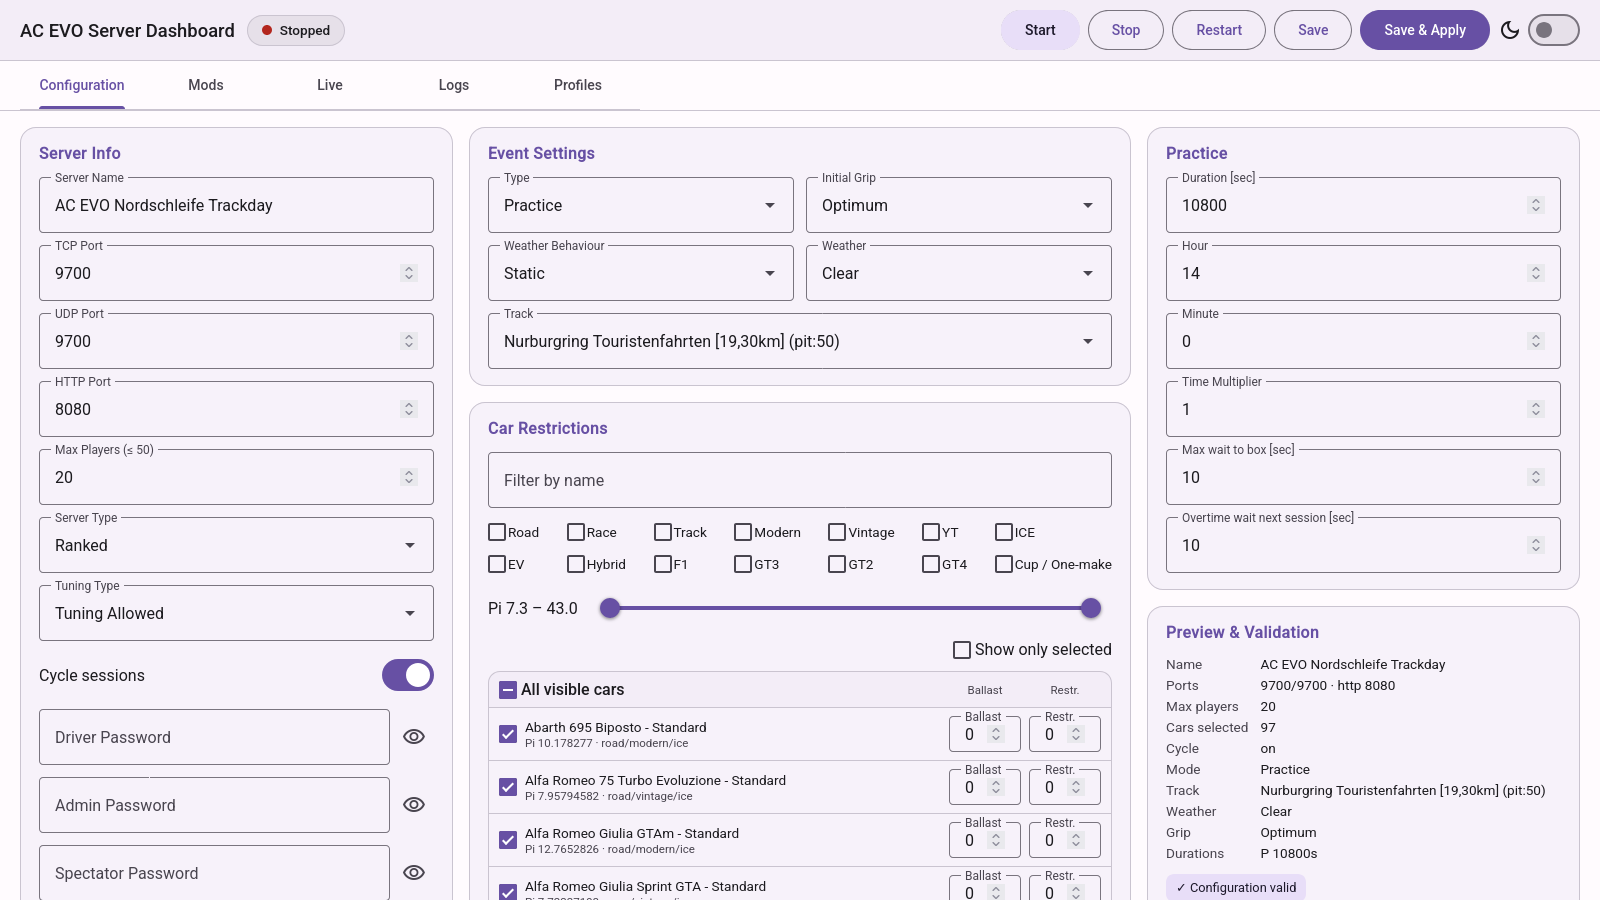
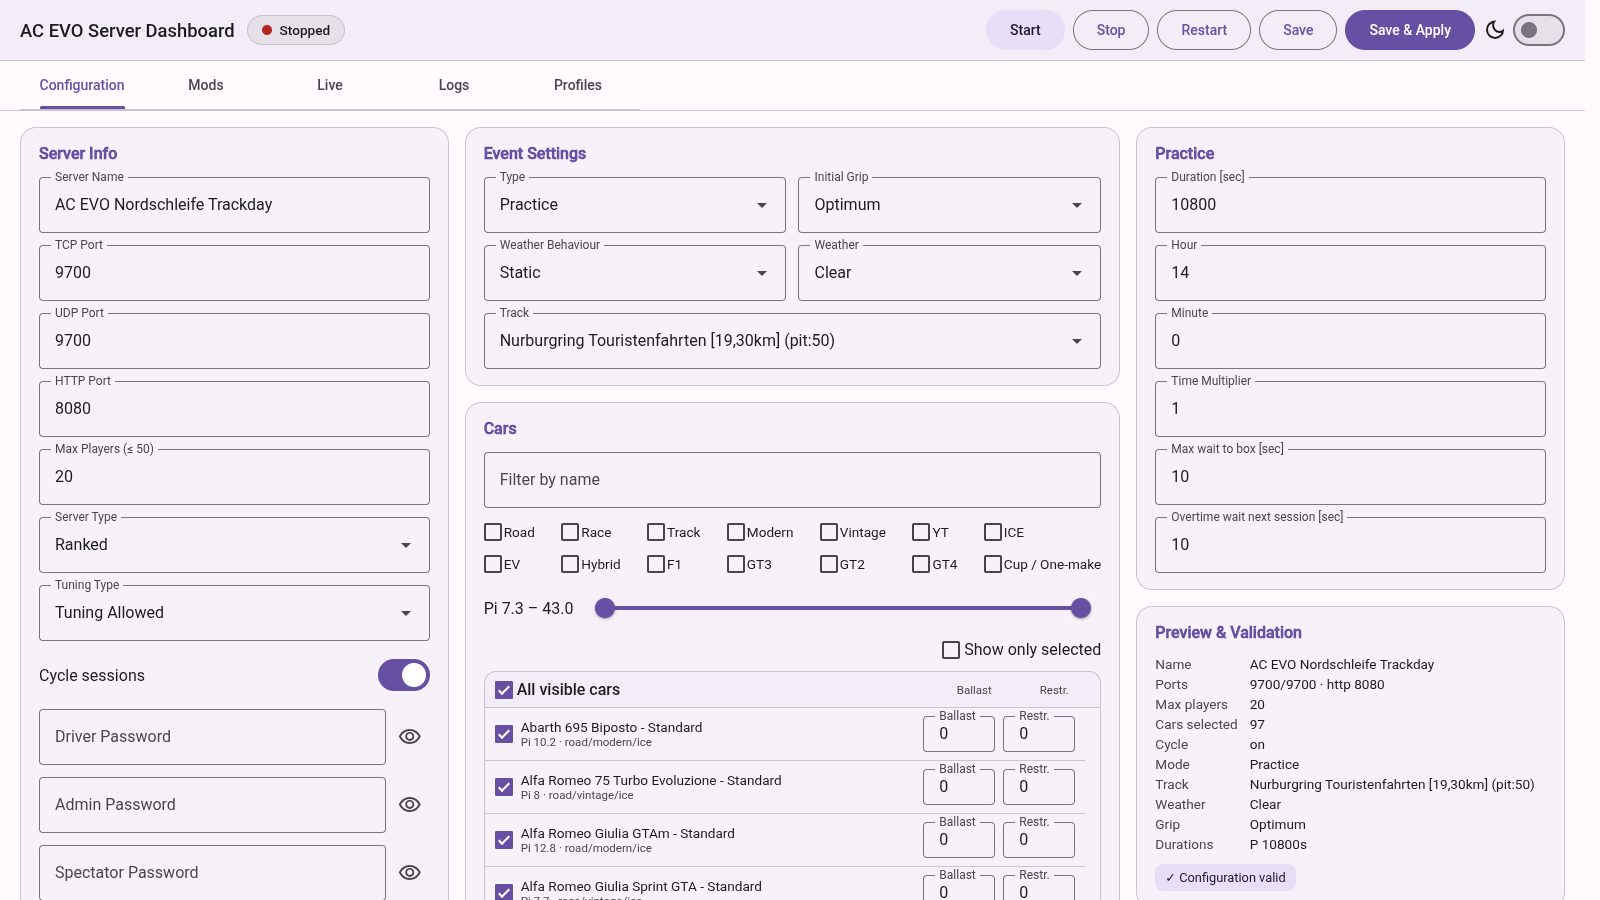
style(dashboard): enlarge cars panel

diff --git a/dashboard/static/index.html b/dashboard/static/index.html
@@ -68,7 +68,7 @@
           <div id="event-fields" class="field-grid"></div>
         </div>
         <div class="card" data-mobile-section="cars">
-          <h2>Car Restrictions</h2>
+          <h2>Cars</h2>
           <div id="cars-container"></div>
         </div>
       </section>
@@ -94,7 +94,7 @@
             Upload one <code>.kspkg</code> here, or copy it to <code>/data/mods</code>. The car and its variants are
             detected automatically.
           </li>
-          <li>To use the new cars, open the Configuration tab and select them under Car Restrictions.</li>
+          <li>To use the new cars, open the Configuration tab and select them under Cars.</li>
           <li>
             As a client, every driver must copy the exact same <code>.kspkg</code> into their own game at
             <code>%USERPROFILE%\Saved Games\ACE\mods</code>. AC EVO rejects missing or different files.

diff --git a/dashboard/static/theme.css b/dashboard/static/theme.css
@@ -803,6 +803,12 @@ md-outlined-select {
   border-radius: 0 0 12px 12px;
 }
 
+@media (min-width: 1101px) {
+  .cars-list {
+    height: 540px;
+  }
+}
+
 .car-row {
   display: grid;
   grid-template-columns: auto minmax(0, 1fr) 72px 72px;

diff --git a/tests/test_dashboard.py b/tests/test_dashboard.py
@@ -580,6 +580,8 @@ class FrontendStaticTests(unittest.TestCase):
         self.assertIn("asks before stopping it", html)
         self.assertIn("The car and its variants are", html)
         self.assertIn("open the Configuration tab", html)
+        self.assertIn("<h2>Cars</h2>", html)
+        self.assertNotIn("Car Restrictions", html)
         self.assertIn("As a client, every driver", html)
         self.assertIn(r"%USERPROFILE%\Saved Games\ACE\mods", html)
         self.assertNotIn('accept=".json"', html)
@@ -601,6 +603,8 @@ class FrontendStaticTests(unittest.TestCase):
         self.assertIn("deleteButton.disabled = modMutationActive", app_js)
         self.assertIn("matchesPiFilter", app_js)
         self.assertIn(".mods-row", css)
+        self.assertIn("@media (min-width: 1101px)", css)
+        self.assertIn("height: 540px", css)
 
 
 class HttpIntegrationTests(unittest.TestCase):
